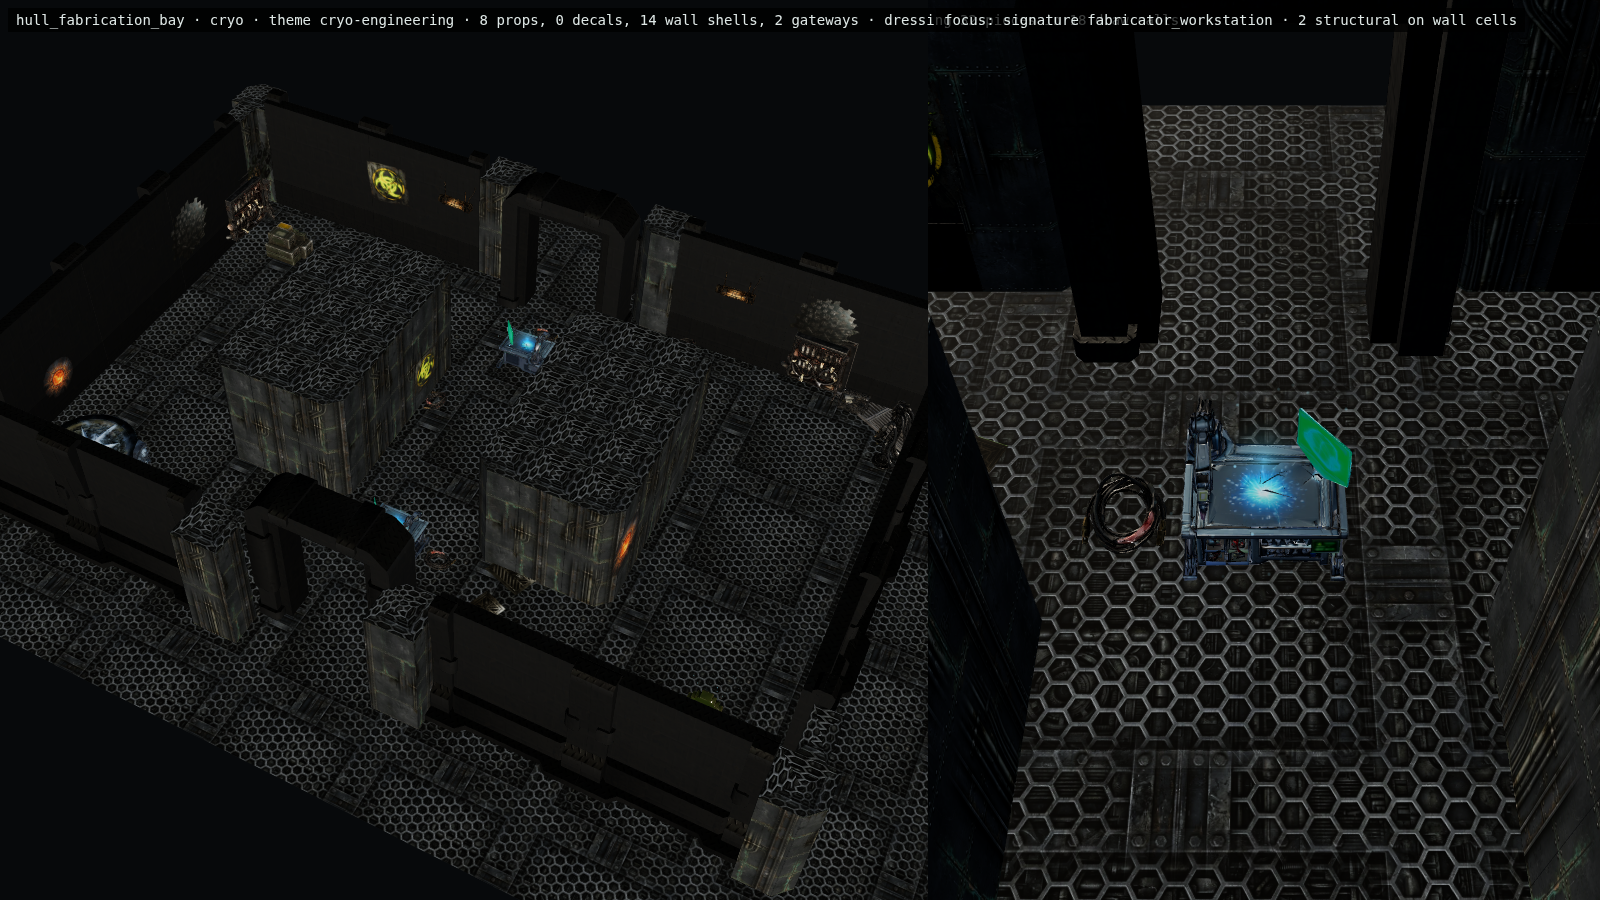
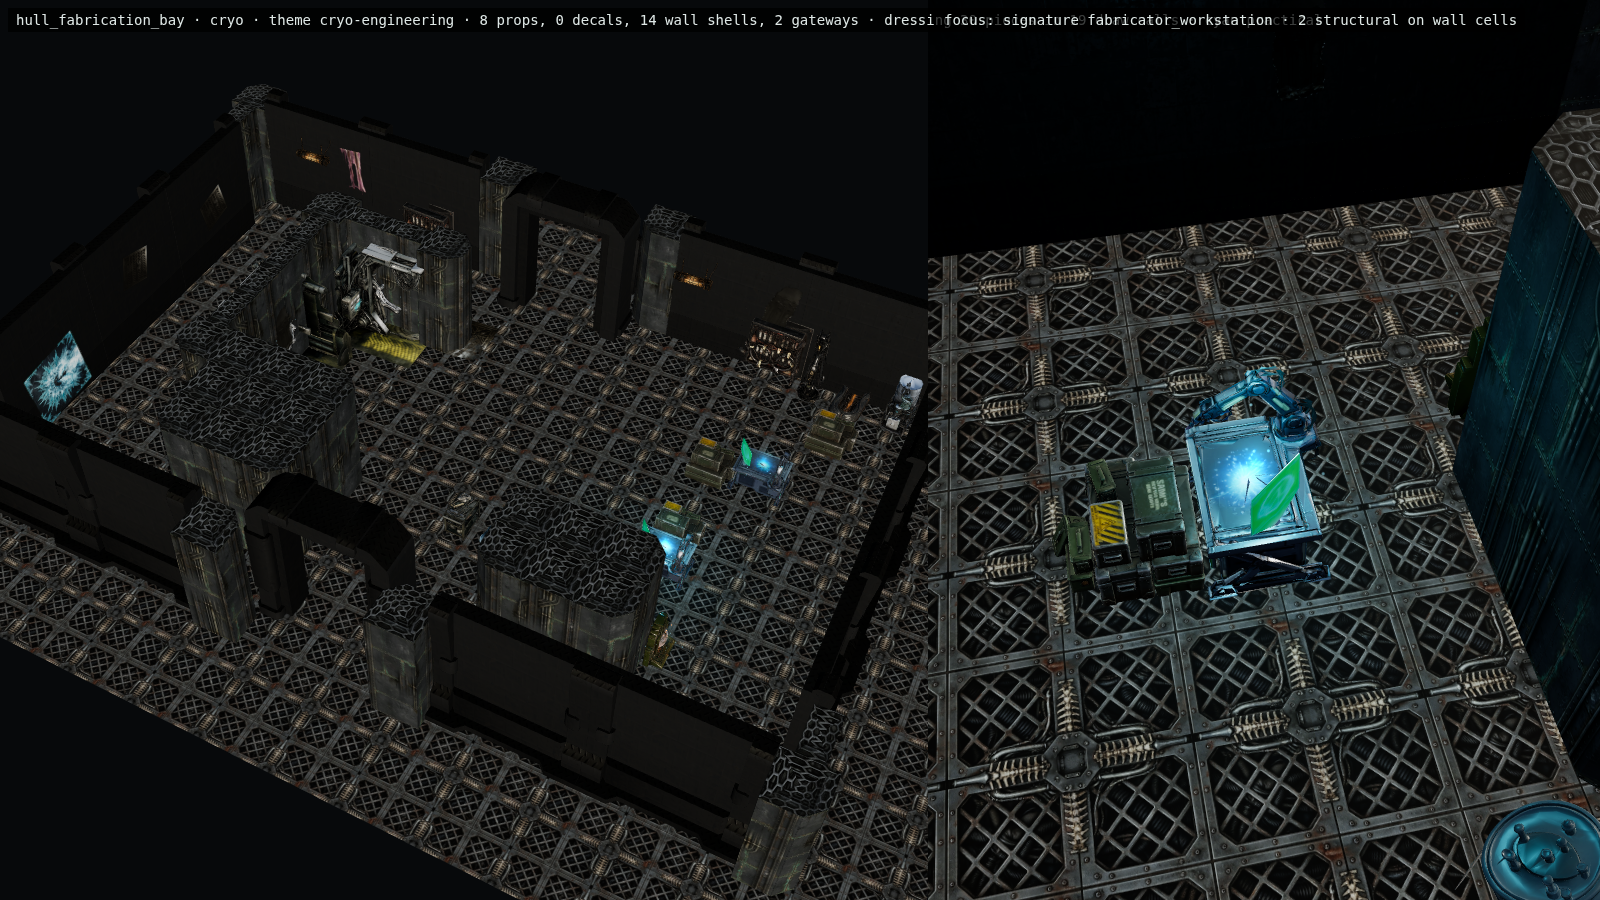
feat(levels): turn hull fabrication into an asymmetric press line

diff --git a/src/data/roomBuilds.js b/src/data/roomBuilds.js
@@ -556,9 +556,22 @@ export const ROOM_BUILD_CATALOG = Object.freeze([
         family: 'engineering',
         themeStyle: 'bunker',
         partitionThickness: 0.5,
-        // Two gantry blocks leave a working aisle down the middle and a full
-        // ring of floor, so the bay reads as a shop floor rather than a room.
-        pattern: rectRoomPattern(17, 11, [{ x: 4, y: 3, w: 3, h: 5 }, { x: 10, y: 3, w: 3, h: 5 }]),
+        // P2 shop-floor proof: a long west press bed and unequal loading
+        // shoulders compress the entry around a permanently clear process
+        // line. The objective lives on the revealed east inspection strip.
+        pattern: authoredRoomPattern([
+            '.................',
+            '.................',
+            '...####..........',
+            '...#.............',
+            '...#.............',
+            '...#.............',
+            '...#.............',
+            '...####..........',
+            '....###....###...',
+            '....###....###...',
+            '.................'
+        ]),
         sockets: [
             { id: 'entry', side: 's', width: 3, required: true },
             { id: 'gantryExit', side: 'n', width: 3, required: false }
@@ -568,22 +581,28 @@ export const ROOM_BUILD_CATALOG = Object.freeze([
         biomeEligibility: ['active', 'cryo'],
         roles: ['objective', 'questDestination'],
         structuralAnchors: [
-            { id: 'hull_press_a', type: 'prop_hydraulic_piston_actuator', x: 5, y: 5 },
-            { id: 'hull_press_b', type: 'prop_hydraulic_piston_actuator', x: 11, y: 5 }
+            { id: 'hull_press_a', type: 'prop_hydraulic_piston_actuator', x: 3, y: 5 },
+            { id: 'hull_press_b', type: 'prop_hydraulic_piston_actuator', x: 5, y: 2 }
         ],
         // MANDATORY_SHIP_GOALS hullExpansion -> objectiveAnchorId, exactly.
         interactionAnchors: [
-            { id: 'hull_fabrication_console', type: 'prop_fabricator_workstation', x: 8, y: 8 },
-            { id: 'hull_bench', type: 'prop_engineering_bench', x: 8, y: 2 }
+            { id: 'hull_fabrication_console', type: 'prop_fabricator_workstation', x: 13, y: 6 },
+            { id: 'hull_bench', type: 'prop_engineering_bench', x: 14, y: 3 }
         ],
         signatureAnchorId: 'hull_fabrication_console',
         compassAnchors: { approach: 'entry', objective: 'hull_fabrication_console' },
-        coverZones: [{ x: 3, y: 2, w: 4, h: 7 }, { x: 10, y: 2, w: 4, h: 7 }],
-        encounterZones: [{ id: 'bay_floor', x: 7, y: 2, w: 3, h: 7 }],
-        rewardAnchors: [{ id: 'hull_plating_cache', type: 'prop_bunker_supplies', x: 1, y: 1 }],
-        loreAnchors: [{ id: 'fabrication_log', type: 'lore_terminal', x: 15, y: 9 }],
+        coverZones: [
+            { x: 2, y: 1, w: 6, h: 8 },
+            { x: 3, y: 8, w: 11, h: 2 }
+        ],
+        encounterZones: [{ id: 'bay_floor', x: 7, y: 1, w: 4, h: 7 }],
+        rewardAnchors: [{ id: 'hull_plating_cache', type: 'prop_bunker_supplies', x: 15, y: 1 }],
+        loreAnchors: [{ id: 'fabrication_log', type: 'lore_terminal', x: 14, y: 8 }],
         hazardZones: [],
-        quietZones: [],
+        quietZones: [
+            { x: 12, y: 1, w: 5, h: 7 },
+            { x: 7, y: 8, w: 4, h: 3 }
+        ],
         safeZone: false,
         containmentBounds: { minX: 0, minY: 0, maxX: 16, maxY: 10 },
         presentationVariants: ['intact', 'abandoned', 'infested', 'looted'],

diff --git a/src/roomBuilds.test.js b/src/roomBuilds.test.js
@@ -94,6 +94,49 @@ describe('ROOM_BUILD_CATALOG', () => {
         expect(build.hazardZones[0]).toMatchObject({ id: 'steam_plume', x: 7, y: 4, w: 3, h: 3 });
     });
 
+    it('turns the hull fabrication bay into an asymmetric press bed around a clear process line', () => {
+        const build = ROOM_BUILD_CATALOG.find((entry) => entry.id === 'hull_fabrication_bay');
+        expect(build.pattern).toEqual([
+            '.................',
+            '.................',
+            '...####..........',
+            '...#.............',
+            '...#.............',
+            '...#.............',
+            '...#.............',
+            '...####..........',
+            '....###....###...',
+            '....###....###...',
+            '.................'
+        ]);
+        const approach = computeApproachPoint(build);
+        const console = { x: 13, y: 6 };
+        const bench = { x: 14, y: 3 };
+        const reward = { x: 15, y: 1 };
+        const exit = { x: 8, y: 0 };
+        expect(approach).toEqual({ x: 8, y: 8 });
+        for (let y = 0; y < build.pattern.length; y += 1) {
+            for (let x = 7; x <= 10; x += 1) {
+                expect(build.pattern[y][x], `process lane ${x},${y}`).toBe('.');
+            }
+        }
+        expect(shortestPatternPath(build.pattern, approach, exit)).toBe(8);
+        expect(shortestPatternPath(build.pattern, approach, console)).toBeLessThan(Infinity);
+        expect(shortestPatternPath(build.pattern, console, bench)).toBeLessThan(Infinity);
+        expect(shortestPatternPath(build.pattern, bench, reward)).toBeLessThan(Infinity);
+        expect(shortestPatternPath(build.pattern, reward, exit)).toBeLessThan(Infinity);
+        expect(build.structuralAnchors).toEqual(expect.arrayContaining([
+            expect.objectContaining({ id: 'hull_press_a', x: 3, y: 5 }),
+            expect.objectContaining({ id: 'hull_press_b', x: 5, y: 2 })
+        ]));
+        expect(build.structuralAnchors.every((anchor) => build.pattern[anchor.y][anchor.x] === '#')).toBe(true);
+        expect(build.interactionAnchors).toEqual(expect.arrayContaining([
+            expect.objectContaining({ id: 'hull_fabrication_console', x: 13, y: 6 }),
+            expect.objectContaining({ id: 'hull_bench', x: 14, y: 3 })
+        ]));
+        expect(build.quietZones[0]).toMatchObject({ x: 12, y: 1, w: 5, h: 7 });
+    });
+
     it('uses the medical P0A proof to create a reveal pivot and supply-side loop', () => {
         const build = ROOM_BUILD_CATALOG.find((entry) => entry.id === 'medical_triage');
         expect(build.pattern).toEqual([

diff --git a/tests/e2e/probes/p2-hull-fabrication-gameplay-camera.spec.js b/tests/e2e/probes/p2-hull-fabrication-gameplay-camera.spec.js
@@ -1,0 +1,19 @@
+import { test, expect } from '@playwright/test';
+
+// P2 shop-floor proof: unequal work cells, the west inspection console, clear
+// process line and far bench/exit must survive every cardinal camera rotation.
+for (let rotation = 0; rotation < 4; rotation += 1) {
+    test(`P2 hull fabrication game camera — R${rotation}`, async ({ page }) => {
+        await page.setViewportSize({ width: 1600, height: 900 });
+        await page.goto(`/tests/e2e/fixtures/furnished-room-showroom.html?build=hull_fabrication_bay&biome=cryo&review=gameplay&rotation=${rotation}`);
+        await page.waitForFunction(() => window.__showroom?.ready === true, null, { timeout: 90_000 });
+        const result = await page.evaluate(() => window.__showroom);
+        expect(result.reviewMode).toBe(true);
+        expect(result.rotation).toBe(rotation);
+        expect(result.cutawayCells).toBeGreaterThan(0);
+        expect(result.props + result.decals).toBeGreaterThan(0);
+        await page.screenshot({
+            path: `docs/reports/assets/furnished-rooms/p2-hull_fabrication_bay-game-camera-r${rotation}.png`
+        });
+    });
+}

diff --git a/docs/planning/n64-architectural-level-design-overhaul-2026-10-10.md b/docs/planning/n64-architectural-level-design-overhaul-2026-10-10.md
@@ -780,10 +780,28 @@ but it is not wired to the camp quest's separately spawned three-valve cluster. 
 vent particles but no use profile or articulated wheel; the encounter and steam rectangles are
 placement metadata, not activation or damage; and presentation/state labels do not drive effects.
 Future bounded response may change wheel strain, steam/sparks, light, and audio without changing
-collision or routes. Next flat P2 candidate: `hull_fabrication_bay`;
-`ring_crossing_landmark` remains a detached progression proof.
+collision or routes.
 
-### 9.6.6 Authored-geometry persistence gate
+### 9.6.6 Lane A P2: asymmetric fabrication line
+
+`hull_fabrication_bay` is the fifth P2 spatial proof. A long west press bed and unequal loading
+shoulders replace two equal block islands, compressing the south entry around a four-cell process
+lane that stays clear through the north exit. The preserved ship-goal console sits on a protected
+east inspection strip and appears after the threshold turn; bench and plating cache extend that
+route to the far end. Tests pin every row, the complete clear lane, both press mounts, mandatory
+anchor identity, and the inspection route through console, bench, cache, and exit. Four
+gameplay-camera/cutaway captures live at
+`docs/reports/assets/furnished-rooms/p2-hull_fabrication_bay-game-camera-r*.png`.
+
+Capability correction: the two hydraulic actuator types currently alias the same exosuit-docking
+gantry model, whose armor-charge semantics are not a fabrication controller. The console can
+acknowledge interaction and glow, but it does not drive either stand-in; the engineering bench also
+visually aliases the workstation. Dedicated future press art may move only a vertical ram or
+contained carriage within the obstruction footprint, with bounded sparks, sound, and work-light
+changes. Nothing may sweep into the process lane or change collision. Next flat P2 candidate:
+`radar_alignment_post`; `ring_crossing_landmark` remains a detached progression proof.
+
+### 9.6.7 Authored-geometry persistence gate
 
 The existing `ROOM_BUILD_VERSION` is only exported; it is not serialized or compared. Neither
 campaign `interiorVersion`, macro `layoutVersion`, nor `WORLD_PLAN_VERSION` pins room-pattern data.
@@ -1159,6 +1177,11 @@ chunk mounts.
   encounter, steam metadata, and service reward; both rejoin at the north exit. Exact two-route and
   four-camera proofs pass. Valve articulation, steam damage, and state-driven FX remain future
   controller work.
+- 2026-10-11: Lane A rebuilt the hull fabrication bay as an asymmetric press line. Unequal loading
+  shoulders compress the entry around a permanently clear process lane, while the preserved
+  ship-goal console, bench, and plating reward form a protected inspection strip. Exact route and
+  four-camera proofs pass. Dedicated press art, bounded ram/carriage motion, and console-to-machine
+  linkage remain future work.
 - 2026-10-10: Round 2 done (`1b0fce7c`): chasm landmarks plus tactical-map glyphs. Criteria 1,
   3, 4 and 5 met; criterion 2 not met as written, with the reason and the map-based answer in
   §9.10.

diff --git a/docs/planning/world-design-doctrine-n64-lessons-2026-10-10.md b/docs/planning/world-design-doctrine-n64-lessons-2026-10-10.md
@@ -630,8 +630,24 @@ but no shipped use profile or wheel articulation; `vent_floor` constrains enemy 
 `steam_plume` is metadata without room-hazard damage; and the pressurized/venting/stabilized labels
 do not drive GLBs, particles, or navigation. Future response may strain the wheel, reduce local
 steam/sparks, and change status light/audio, but may not open a shortcut or close either route. The
-next flat P2 candidate is `hull_fabrication_bay`; the ring crossing remains a detached
-progression-integration proof.
+`hull_fabrication_bay` is the fifth P2 spatial proof. A long west press bed and unequal loading
+shoulders replace the paired block islands, compressing the south arrival around a permanently
+clear four-cell process lane. The mandatory `hull_fabrication_console` moves onto a protected east
+inspection strip and is revealed only after the threshold; the inspection bench and plating cache
+continue north before rejoining at the optional exit. The process lane owns encounter placement,
+while the arrival and east inspection strip remain quiet. Tests pin the exact silhouette, all
+quest/reward anchors, the uninterrupted lane, press mounts, and the complete
+console → bench → cache → exit inspection route. Four gameplay-camera/cutaway captures live at
+`docs/reports/assets/furnished-rooms/p2-hull_fabrication_bay-game-camera-r*.png`.
+
+Capability correction: both authored hydraulic actuators currently resolve to the same
+`prop_exosuit_docking_gantry` stand-in; there is no dedicated press GLB or linked room controller.
+The fabrication console has a real terminal acknowledgement and powered FX, but it does not cycle
+either gantry. `prop_engineering_bench` also aliases the workstation visually and does not prove a
+separate fabrication station. Future dedicated art may isolate vertical ram heads or contained
+carriages and add sparks, work-light/audio response, and a short local cycle, but no moving part may
+sweep into the process lane and no state may alter collision. The next flat P2 candidate is
+`radar_alignment_post`; the ring crossing remains a detached progression-integration proof.
 
 ## Greybox process
 
